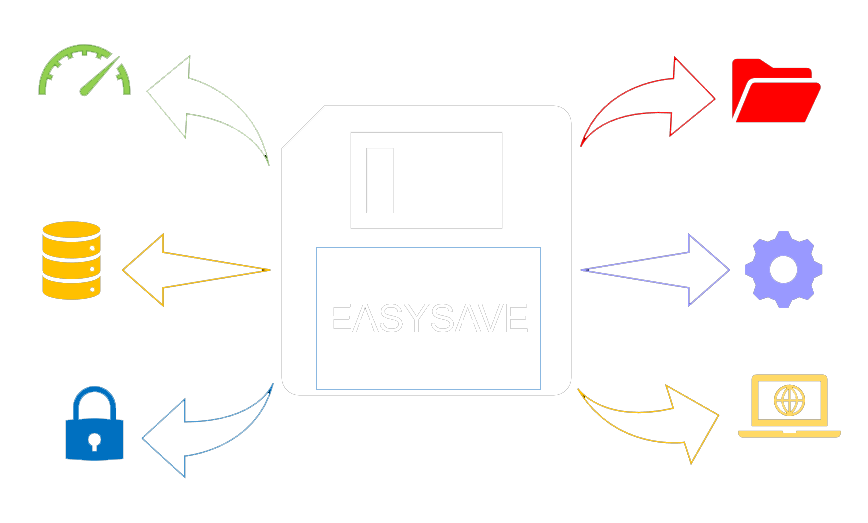
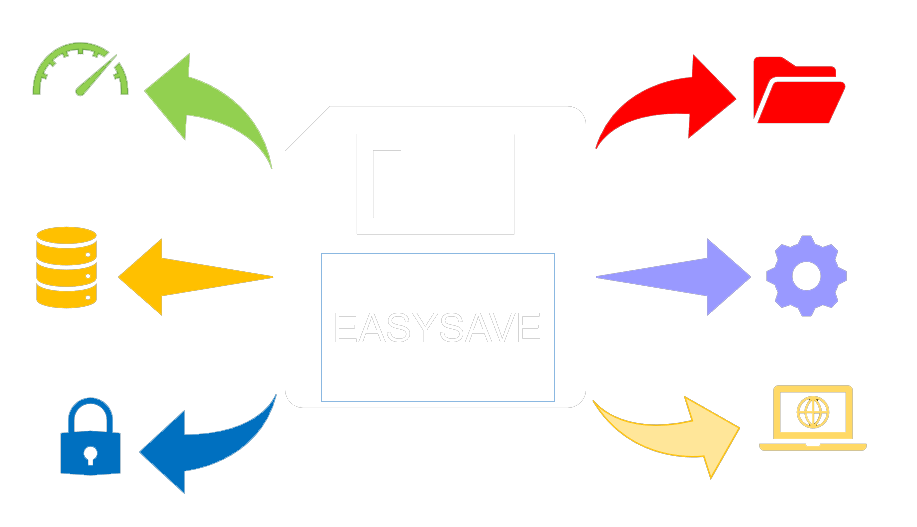
modification interface

diff --git a/EasyConsole/TitleScreen.xaml b/EasyConsole/TitleScreen.xaml
@@ -7,8 +7,8 @@
         xmlns:p="clr-namespace:EasyConsole.Properties"
         mc:Ignorable="d"
         Title="EASYSAVE" Height="571.721" Width="800" Background="White" Foreground="White">
-    <StackPanel x:Name="border" HorizontalAlignment="Center" VerticalAlignment="Center" Height="449" Background="Black" Width="736" Margin="28,78,28,14">
-        <Label x:Name="welcome" Content="{x:Static p:Resources.WelcomeMessage}" Background="{x:Null}" Foreground="White" RenderTransformOrigin="0.513,0.496" HorizontalAlignment="Center" FontFamily="Arial" FontSize="22" FontWeight="Bold" />
+    <StackPanel x:Name="border" HorizontalAlignment="Center" VerticalAlignment="Center" Height="509" Background="#FF494646" Width="736" Margin="29,19,29,15">
+        <Label x:Name="welcome" Content="bienvenue" Background="{x:Null}" Foreground="White" RenderTransformOrigin="0.513,0.496" HorizontalAlignment="Center" FontFamily="Arial" FontSize="22" FontWeight="Bold" />
         <Label x:Name="nothing" Content=" " Background="{x:Null}" Foreground="White" RenderTransformOrigin="0.513,0.496" HorizontalAlignment="Center" FontFamily="Arial" FontSize="36" FontWeight="Bold" Height="6">
             <Label.RenderTransform>
                 <TransformGroup>
@@ -21,18 +21,18 @@
         </Label>
         <Image Source="Ressources\easysave.png" Height="189" Width="400" />
         <StackPanel x:Name="chooseLanguage" Margin="10" Height="88">
-            <Label x:Name="language" Content="{x:Static p:Resources.LanguageOption}" Foreground="White" FontFamily="Arial" FontSize="14" />
+            <Label x:Name="language" Content="language" Foreground="White" FontFamily="Arial" FontSize="14" />
             <WrapPanel Width="639">
-                <Button x:Name="english" Width="150" BorderBrush="Black" ClickMode="Press" Click="english_Click" Background="Black" Foreground="Black">
+                <Button x:Name="english" Width="150" BorderBrush="#FF494646" ClickMode="Press" Click="english_Click" Background="#FF494646" Foreground="Black">
                     <Image x:Name="IMGenglish" Source="Ressources\english.png" Height="50" Width="50" Opacity="0.78" />
                 </Button>
-                <Button x:Name="spainish" Width="150" Background="Black" BorderBrush="Black" Click="spainish_Click">
+                <Button x:Name="spainish" Width="150" Background="#FF494646" BorderBrush="#FF494646" Click="spainish_Click">
                     <Image x:Name="IMGspanish" Source="Ressources\spainish.png" Height="50" Width="50" />
                 </Button>
-                <Button x:Name="french" Width="150" Background="Black" BorderBrush="Black" Click="french_Click">
+                <Button x:Name="french" Width="150" Background="#FF494646" BorderBrush="#FF494646" Click="french_Click">
                     <Image x:Name="IMGfrench" Source="Ressources\french.png" Height="50" Width="50" />
                 </Button>
-                <Button x:Name="german" Width="150" Background="Black" BorderBrush="Black" Click="german_Click">
+                <Button x:Name="german" Width="150" Background="#FF494646" BorderBrush="#FF494646" Click="german_Click">
                     <Image x:Name="IMGgerman" Source="Ressources\german.png" Height="50" Width="50" />
                 </Button>
             </WrapPanel>
